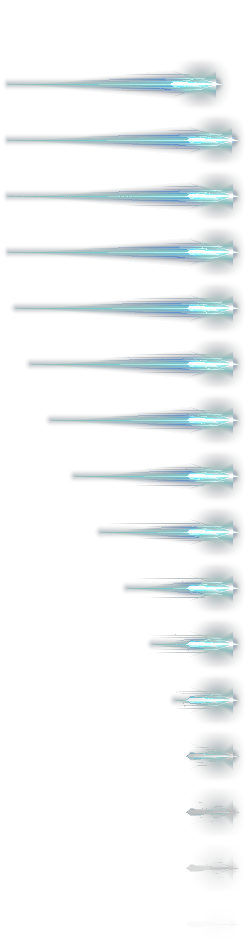
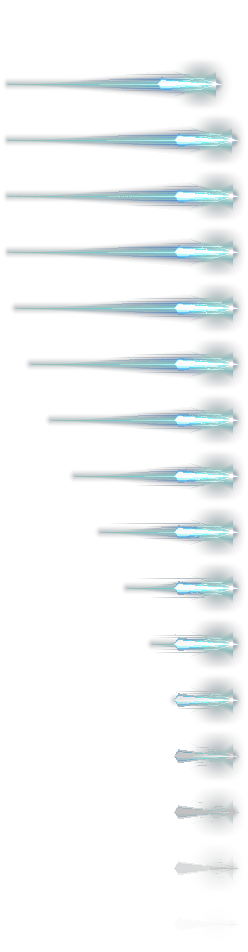
유령 창기세: 대시 속도 2.5배(거리 약 2.4배), 창끝 굵고 날카롭게, 전체 더 투명하게
Claude-Session: https://claude.ai/code/session_01CPuQwRxjahy2BkbhjWZhoU

diff --git a/index.html b/index.html
@@ -1769,8 +1769,8 @@ function drawFxFront() {
     } else if (f.kind === "lance" && ready(gfxImg.lance)) {                 // pixelfx 유령 불길 창: 돌진하는 동안은 다 뻗은 창, 끝나면 꼬리부터 타 들어간다
       const G2 = GFX.lance, len = Math.max(30, Math.abs(f.x1 - f.x0)), sx = len / G2.L, fi = Math.min(G2.n - 1, f.hold ? 3 : 3 + Math.floor(f.age * G2.fps));
       g.save(); g.translate(Math.round(f.x0), Math.round(f.y)); g.scale(f.dir * sx, 1);
-      g.globalAlpha = 0.7; g.drawImage(gfxImg.lance, 0, fi * G2.h, G2.w, G2.h, -G2.px, -G2.py, G2.w, G2.h);                  // 반투명 혜성
-      g.globalCompositeOperation = "lighter"; g.globalAlpha = 0.65; g.drawImage(gfxImg.lance, 0, fi * G2.h, G2.w, G2.h, -G2.px, -G2.py, G2.w, G2.h);   // 빛으로 한 번 더 더해 에너지처럼 빛나게
+      g.globalAlpha = 0.48; g.drawImage(gfxImg.lance, 0, fi * G2.h, G2.w, G2.h, -G2.px, -G2.py, G2.w, G2.h);                  // 반투명 혜성
+      g.globalCompositeOperation = "lighter"; g.globalAlpha = 0.45; g.drawImage(gfxImg.lance, 0, fi * G2.h, G2.w, G2.h, -G2.px, -G2.py, G2.w, G2.h);   // 빛으로 한 번 더 더해 에너지처럼 빛나게
       g.restore();
     } else if (f.kind === "lance") {                                          // 유령 창기세 돌진: 지나간 길 전체가 거대한 창 모양 빛 (뒤는 가늘고 끝은 넓은 날)
       const u = f.t / f.life, a = 1 - u, L = (f.x1 - f.x0) * f.dir, x0 = f.x0, d = f.dir, y = f.y, w = 7 * (1 - u * 0.6);
@@ -1915,14 +1915,14 @@ function updatePlayer(dt) {
     if (ax) p.dir = ax; p.ghostT = 0; dust(p.x, p.y, -p.dir, 5);
     if (p.helm.id === "soldier") {                                   // 병사 계보: 대시 = 창 찌르기 돌진. 푸른 찌르기 이펙트, 근위 창대장은 유령 불길, 창기세 중엔 더 멀고 크게
       const st = hgOf("soldier"), buff = p.lanceT > 0;
-      if (buff) { p.dashing *= 1.25; p.lanceFx = { kind: "lance", x0: p.x - p.dir * 6, x1: p.x, y: p.y - 13, dir: p.dir, t: 0, life: 0.5, age: 0, hold: true }; flashes.push(p.lanceFx); }   // 창기세: 빠르고 길게, 지나간 길에 거대한 창 모양 빛
+      if (buff) { p.dashing *= 0.95; p.lanceFx = { kind: "lance", x0: p.x - p.dir * 6, x1: p.x, y: p.y - 13, dir: p.dir, t: 0, life: 0.5, age: 0, hold: true }; flashes.push(p.lanceFx); }   // 창기세: 빠르고 길게, 지나간 길에 거대한 창 모양 빛
       fxStab(p.x + p.dir * 8, p.y - 12, p.dir, buff ? 70 : st >= 2 ? 52 : 36, RAMP_GHOST);
       light(p.x + p.dir * 24, p.y - 12, buff ? 70 : 40, "#63c8ea", buff ? 0.9 : 0.6, 0.25);
       if (st >= 2) { fxShock(p.x, p.y, buff ? 60 : 36, RAMP_GHOST); for (let i = 0; i < (buff ? 18 : 8); i++) spark(p.x, p.y - rnd(4, 22), -p.dir * rnd(60, 200), -rnd(10, 90), 0.45, RAMP_GHOST, true); }
     }
   }
   if (p.dashing > 0) {
-    p.dashing = Math.max(0, p.dashing - dt); p.vx = p.dir * BASE.dashSpeed * (p.helm.id === "soldier" && p.lanceT > 0 ? 1.7 : 1); p.vy = 0;
+    p.dashing = Math.max(0, p.dashing - dt); p.vx = p.dir * BASE.dashSpeed * (p.helm.id === "soldier" && p.lanceT > 0 ? 2.5 : 1); p.vy = 0;
     if (p.lanceFx) { p.lanceFx.x1 = p.x + p.dir * 18; p.lanceFx.t = 0; p.lanceFx.hold = true; if (p.dashing <= 0) { p.lanceFx.hold = false; p.lanceFx = null; } }   // 창 빛이 돌진 끝까지 따라 늘어난다
     { const sol = p.helm.id === "soldier" && hgOf("soldier") >= 1, buff = sol && p.lanceT > 0;
       const dd = buff ? 45 : cr("gale", 4) ? 20 : sol ? 14 : 0, hw = buff ? 26 : sol && hgOf("soldier") >= 2 ? 20 : 14;   // 질풍 4각인 또는 창병 이상: 대시가 공격, 창기세 중엔 3배 넘게

diff --git a/test/golem.html b/test/golem.html
@@ -1768,8 +1768,8 @@ function drawFxFront() {
     } else if (f.kind === "lance" && ready(gfxImg.lance)) {                 // pixelfx 유령 불길 창: 돌진하는 동안은 다 뻗은 창, 끝나면 꼬리부터 타 들어간다
       const G2 = GFX.lance, len = Math.max(30, Math.abs(f.x1 - f.x0)), sx = len / G2.L, fi = Math.min(G2.n - 1, f.hold ? 3 : 3 + Math.floor(f.age * G2.fps));
       g.save(); g.translate(Math.round(f.x0), Math.round(f.y)); g.scale(f.dir * sx, 1);
-      g.globalAlpha = 0.7; g.drawImage(gfxImg.lance, 0, fi * G2.h, G2.w, G2.h, -G2.px, -G2.py, G2.w, G2.h);                  // 반투명 혜성
-      g.globalCompositeOperation = "lighter"; g.globalAlpha = 0.65; g.drawImage(gfxImg.lance, 0, fi * G2.h, G2.w, G2.h, -G2.px, -G2.py, G2.w, G2.h);   // 빛으로 한 번 더 더해 에너지처럼 빛나게
+      g.globalAlpha = 0.48; g.drawImage(gfxImg.lance, 0, fi * G2.h, G2.w, G2.h, -G2.px, -G2.py, G2.w, G2.h);                  // 반투명 혜성
+      g.globalCompositeOperation = "lighter"; g.globalAlpha = 0.45; g.drawImage(gfxImg.lance, 0, fi * G2.h, G2.w, G2.h, -G2.px, -G2.py, G2.w, G2.h);   // 빛으로 한 번 더 더해 에너지처럼 빛나게
       g.restore();
     } else if (f.kind === "lance") {                                          // 유령 창기세 돌진: 지나간 길 전체가 거대한 창 모양 빛 (뒤는 가늘고 끝은 넓은 날)
       const u = f.t / f.life, a = 1 - u, L = (f.x1 - f.x0) * f.dir, x0 = f.x0, d = f.dir, y = f.y, w = 7 * (1 - u * 0.6);
@@ -1914,14 +1914,14 @@ function updatePlayer(dt) {
     if (ax) p.dir = ax; p.ghostT = 0; dust(p.x, p.y, -p.dir, 5);
     if (p.helm.id === "soldier") {                                   // 병사 계보: 대시 = 창 찌르기 돌진. 푸른 찌르기 이펙트, 근위 창대장은 유령 불길, 창기세 중엔 더 멀고 크게
       const st = hgOf("soldier"), buff = p.lanceT > 0;
-      if (buff) { p.dashing *= 1.25; p.lanceFx = { kind: "lance", x0: p.x - p.dir * 6, x1: p.x, y: p.y - 13, dir: p.dir, t: 0, life: 0.5, age: 0, hold: true }; flashes.push(p.lanceFx); }   // 창기세: 빠르고 길게, 지나간 길에 거대한 창 모양 빛
+      if (buff) { p.dashing *= 0.95; p.lanceFx = { kind: "lance", x0: p.x - p.dir * 6, x1: p.x, y: p.y - 13, dir: p.dir, t: 0, life: 0.5, age: 0, hold: true }; flashes.push(p.lanceFx); }   // 창기세: 빠르고 길게, 지나간 길에 거대한 창 모양 빛
       fxStab(p.x + p.dir * 8, p.y - 12, p.dir, buff ? 70 : st >= 2 ? 52 : 36, RAMP_GHOST);
       light(p.x + p.dir * 24, p.y - 12, buff ? 70 : 40, "#63c8ea", buff ? 0.9 : 0.6, 0.25);
       if (st >= 2) { fxShock(p.x, p.y, buff ? 60 : 36, RAMP_GHOST); for (let i = 0; i < (buff ? 18 : 8); i++) spark(p.x, p.y - rnd(4, 22), -p.dir * rnd(60, 200), -rnd(10, 90), 0.45, RAMP_GHOST, true); }
     }
   }
   if (p.dashing > 0) {
-    p.dashing = Math.max(0, p.dashing - dt); p.vx = p.dir * BASE.dashSpeed * (p.helm.id === "soldier" && p.lanceT > 0 ? 1.7 : 1); p.vy = 0;
+    p.dashing = Math.max(0, p.dashing - dt); p.vx = p.dir * BASE.dashSpeed * (p.helm.id === "soldier" && p.lanceT > 0 ? 2.5 : 1); p.vy = 0;
     if (p.lanceFx) { p.lanceFx.x1 = p.x + p.dir * 18; p.lanceFx.t = 0; p.lanceFx.hold = true; if (p.dashing <= 0) { p.lanceFx.hold = false; p.lanceFx = null; } }   // 창 빛이 돌진 끝까지 따라 늘어난다
     { const sol = p.helm.id === "soldier" && hgOf("soldier") >= 1, buff = sol && p.lanceT > 0;
       const dd = buff ? 45 : cr("gale", 4) ? 20 : sol ? 14 : 0, hw = buff ? 26 : sol && hgOf("soldier") >= 2 ? 20 : 14;   // 질풍 4각인 또는 창병 이상: 대시가 공격, 창기세 중엔 3배 넘게

diff --git a/test/helm.html b/test/helm.html
@@ -1772,8 +1772,8 @@ function drawFxFront() {
     } else if (f.kind === "lance" && ready(gfxImg.lance)) {                 // pixelfx 유령 불길 창: 돌진하는 동안은 다 뻗은 창, 끝나면 꼬리부터 타 들어간다
       const G2 = GFX.lance, len = Math.max(30, Math.abs(f.x1 - f.x0)), sx = len / G2.L, fi = Math.min(G2.n - 1, f.hold ? 3 : 3 + Math.floor(f.age * G2.fps));
       g.save(); g.translate(Math.round(f.x0), Math.round(f.y)); g.scale(f.dir * sx, 1);
-      g.globalAlpha = 0.7; g.drawImage(gfxImg.lance, 0, fi * G2.h, G2.w, G2.h, -G2.px, -G2.py, G2.w, G2.h);                  // 반투명 혜성
-      g.globalCompositeOperation = "lighter"; g.globalAlpha = 0.65; g.drawImage(gfxImg.lance, 0, fi * G2.h, G2.w, G2.h, -G2.px, -G2.py, G2.w, G2.h);   // 빛으로 한 번 더 더해 에너지처럼 빛나게
+      g.globalAlpha = 0.48; g.drawImage(gfxImg.lance, 0, fi * G2.h, G2.w, G2.h, -G2.px, -G2.py, G2.w, G2.h);                  // 반투명 혜성
+      g.globalCompositeOperation = "lighter"; g.globalAlpha = 0.45; g.drawImage(gfxImg.lance, 0, fi * G2.h, G2.w, G2.h, -G2.px, -G2.py, G2.w, G2.h);   // 빛으로 한 번 더 더해 에너지처럼 빛나게
       g.restore();
     } else if (f.kind === "lance") {                                          // 유령 창기세 돌진: 지나간 길 전체가 거대한 창 모양 빛 (뒤는 가늘고 끝은 넓은 날)
       const u = f.t / f.life, a = 1 - u, L = (f.x1 - f.x0) * f.dir, x0 = f.x0, d = f.dir, y = f.y, w = 7 * (1 - u * 0.6);
@@ -1918,14 +1918,14 @@ function updatePlayer(dt) {
     if (ax) p.dir = ax; p.ghostT = 0; dust(p.x, p.y, -p.dir, 5);
     if (p.helm.id === "soldier") {                                   // 병사 계보: 대시 = 창 찌르기 돌진. 푸른 찌르기 이펙트, 근위 창대장은 유령 불길, 창기세 중엔 더 멀고 크게
       const st = hgOf("soldier"), buff = p.lanceT > 0;
-      if (buff) { p.dashing *= 1.25; p.lanceFx = { kind: "lance", x0: p.x - p.dir * 6, x1: p.x, y: p.y - 13, dir: p.dir, t: 0, life: 0.5, age: 0, hold: true }; flashes.push(p.lanceFx); }   // 창기세: 빠르고 길게, 지나간 길에 거대한 창 모양 빛
+      if (buff) { p.dashing *= 0.95; p.lanceFx = { kind: "lance", x0: p.x - p.dir * 6, x1: p.x, y: p.y - 13, dir: p.dir, t: 0, life: 0.5, age: 0, hold: true }; flashes.push(p.lanceFx); }   // 창기세: 빠르고 길게, 지나간 길에 거대한 창 모양 빛
       fxStab(p.x + p.dir * 8, p.y - 12, p.dir, buff ? 70 : st >= 2 ? 52 : 36, RAMP_GHOST);
       light(p.x + p.dir * 24, p.y - 12, buff ? 70 : 40, "#63c8ea", buff ? 0.9 : 0.6, 0.25);
       if (st >= 2) { fxShock(p.x, p.y, buff ? 60 : 36, RAMP_GHOST); for (let i = 0; i < (buff ? 18 : 8); i++) spark(p.x, p.y - rnd(4, 22), -p.dir * rnd(60, 200), -rnd(10, 90), 0.45, RAMP_GHOST, true); }
     }
   }
   if (p.dashing > 0) {
-    p.dashing = Math.max(0, p.dashing - dt); p.vx = p.dir * BASE.dashSpeed * (p.helm.id === "soldier" && p.lanceT > 0 ? 1.7 : 1); p.vy = 0;
+    p.dashing = Math.max(0, p.dashing - dt); p.vx = p.dir * BASE.dashSpeed * (p.helm.id === "soldier" && p.lanceT > 0 ? 2.5 : 1); p.vy = 0;
     if (p.lanceFx) { p.lanceFx.x1 = p.x + p.dir * 18; p.lanceFx.t = 0; p.lanceFx.hold = true; if (p.dashing <= 0) { p.lanceFx.hold = false; p.lanceFx = null; } }   // 창 빛이 돌진 끝까지 따라 늘어난다
     { const sol = p.helm.id === "soldier" && hgOf("soldier") >= 1, buff = sol && p.lanceT > 0;
       const dd = buff ? 45 : cr("gale", 4) ? 20 : sol ? 14 : 0, hw = buff ? 26 : sol && hgOf("soldier") >= 2 ? 20 : 14;   // 질풍 4각인 또는 창병 이상: 대시가 공격, 창기세 중엔 3배 넘게

diff --git a/test/sword.html b/test/sword.html
@@ -1768,8 +1768,8 @@ function drawFxFront() {
     } else if (f.kind === "lance" && ready(gfxImg.lance)) {                 // pixelfx 유령 불길 창: 돌진하는 동안은 다 뻗은 창, 끝나면 꼬리부터 타 들어간다
       const G2 = GFX.lance, len = Math.max(30, Math.abs(f.x1 - f.x0)), sx = len / G2.L, fi = Math.min(G2.n - 1, f.hold ? 3 : 3 + Math.floor(f.age * G2.fps));
       g.save(); g.translate(Math.round(f.x0), Math.round(f.y)); g.scale(f.dir * sx, 1);
-      g.globalAlpha = 0.7; g.drawImage(gfxImg.lance, 0, fi * G2.h, G2.w, G2.h, -G2.px, -G2.py, G2.w, G2.h);                  // 반투명 혜성
-      g.globalCompositeOperation = "lighter"; g.globalAlpha = 0.65; g.drawImage(gfxImg.lance, 0, fi * G2.h, G2.w, G2.h, -G2.px, -G2.py, G2.w, G2.h);   // 빛으로 한 번 더 더해 에너지처럼 빛나게
+      g.globalAlpha = 0.48; g.drawImage(gfxImg.lance, 0, fi * G2.h, G2.w, G2.h, -G2.px, -G2.py, G2.w, G2.h);                  // 반투명 혜성
+      g.globalCompositeOperation = "lighter"; g.globalAlpha = 0.45; g.drawImage(gfxImg.lance, 0, fi * G2.h, G2.w, G2.h, -G2.px, -G2.py, G2.w, G2.h);   // 빛으로 한 번 더 더해 에너지처럼 빛나게
       g.restore();
     } else if (f.kind === "lance") {                                          // 유령 창기세 돌진: 지나간 길 전체가 거대한 창 모양 빛 (뒤는 가늘고 끝은 넓은 날)
       const u = f.t / f.life, a = 1 - u, L = (f.x1 - f.x0) * f.dir, x0 = f.x0, d = f.dir, y = f.y, w = 7 * (1 - u * 0.6);
@@ -1914,14 +1914,14 @@ function updatePlayer(dt) {
     if (ax) p.dir = ax; p.ghostT = 0; dust(p.x, p.y, -p.dir, 5);
     if (p.helm.id === "soldier") {                                   // 병사 계보: 대시 = 창 찌르기 돌진. 푸른 찌르기 이펙트, 근위 창대장은 유령 불길, 창기세 중엔 더 멀고 크게
       const st = hgOf("soldier"), buff = p.lanceT > 0;
-      if (buff) { p.dashing *= 1.25; p.lanceFx = { kind: "lance", x0: p.x - p.dir * 6, x1: p.x, y: p.y - 13, dir: p.dir, t: 0, life: 0.5, age: 0, hold: true }; flashes.push(p.lanceFx); }   // 창기세: 빠르고 길게, 지나간 길에 거대한 창 모양 빛
+      if (buff) { p.dashing *= 0.95; p.lanceFx = { kind: "lance", x0: p.x - p.dir * 6, x1: p.x, y: p.y - 13, dir: p.dir, t: 0, life: 0.5, age: 0, hold: true }; flashes.push(p.lanceFx); }   // 창기세: 빠르고 길게, 지나간 길에 거대한 창 모양 빛
       fxStab(p.x + p.dir * 8, p.y - 12, p.dir, buff ? 70 : st >= 2 ? 52 : 36, RAMP_GHOST);
       light(p.x + p.dir * 24, p.y - 12, buff ? 70 : 40, "#63c8ea", buff ? 0.9 : 0.6, 0.25);
       if (st >= 2) { fxShock(p.x, p.y, buff ? 60 : 36, RAMP_GHOST); for (let i = 0; i < (buff ? 18 : 8); i++) spark(p.x, p.y - rnd(4, 22), -p.dir * rnd(60, 200), -rnd(10, 90), 0.45, RAMP_GHOST, true); }
     }
   }
   if (p.dashing > 0) {
-    p.dashing = Math.max(0, p.dashing - dt); p.vx = p.dir * BASE.dashSpeed * (p.helm.id === "soldier" && p.lanceT > 0 ? 1.7 : 1); p.vy = 0;
+    p.dashing = Math.max(0, p.dashing - dt); p.vx = p.dir * BASE.dashSpeed * (p.helm.id === "soldier" && p.lanceT > 0 ? 2.5 : 1); p.vy = 0;
     if (p.lanceFx) { p.lanceFx.x1 = p.x + p.dir * 18; p.lanceFx.t = 0; p.lanceFx.hold = true; if (p.dashing <= 0) { p.lanceFx.hold = false; p.lanceFx = null; } }   // 창 빛이 돌진 끝까지 따라 늘어난다
     { const sol = p.helm.id === "soldier" && hgOf("soldier") >= 1, buff = sol && p.lanceT > 0;
       const dd = buff ? 45 : cr("gale", 4) ? 20 : sol ? 14 : 0, hw = buff ? 26 : sol && hgOf("soldier") >= 2 ? 20 : 14;   // 질풍 4각인 또는 창병 이상: 대시가 공격, 창기세 중엔 3배 넘게
